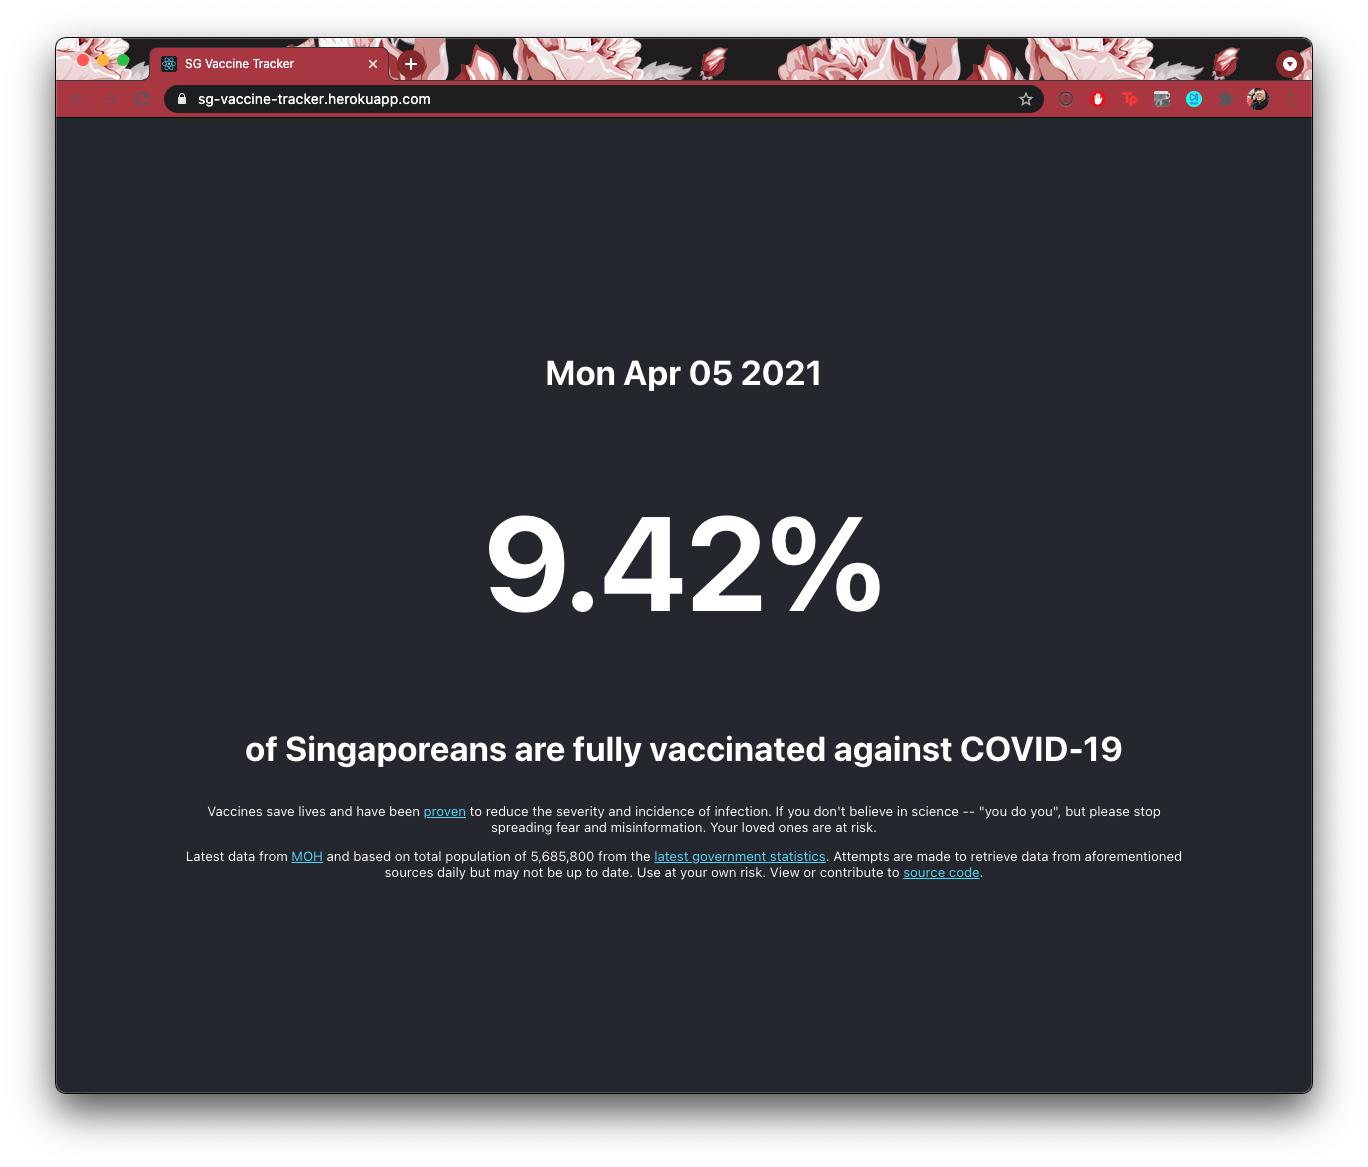
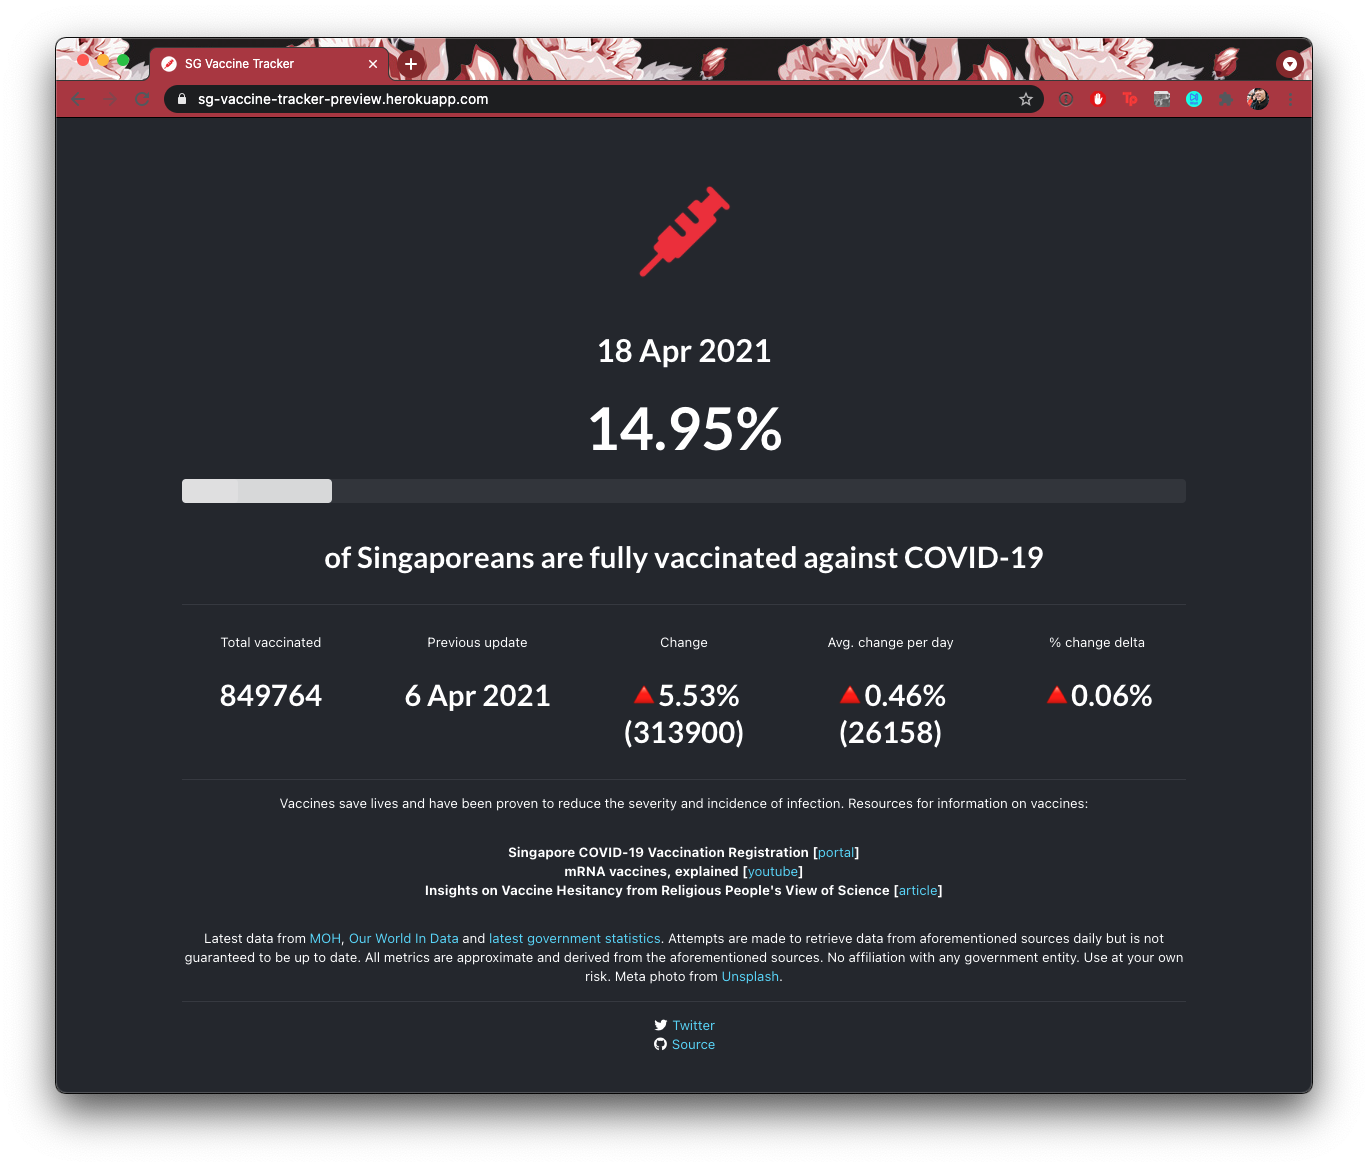
Update READMEs and latest demo screenshot

diff --git a/api/README.md b/api/README.md
@@ -31,7 +31,7 @@ Any interfacing with the data service, in this case AWS DynamoDB, is done in fil
 
 ### Notification Layer
 
-An interface with the notification service, in this case AWS Simple Notification Service and Slack, can be done in files within the `src/notificationLayer` directory. The Slack Web API has been used to enable this feature.
+An interface with the notification service, in this case AWS Simple Notification Service and Slack, can be done in files within the `src/notificationLayer` directory. The Slack Web API and Twitter APIs have been used to enable this feature.
 
 ### Lambdas
 
@@ -47,12 +47,25 @@ For offline testing, run `sls offline start --stage local`. Before this command 
 
 Then, use the client or query the API using Postman. There should be a single data point seeded.
 
+Unit tests are now enabled for this component via Jest. To run, use `npm run test`
+
 ### Configuring SNS and tokens
 
-Offline testing with SNS is currently not supported.
+Offline testing with SNS is now supported via the serverless-offline-ssm plugin. To use, create a `.env` file for local use with the following parameters
 
-AWS System Manager Parameter Store is used to store secret tokens relating to Slack. If there is a desire to hook a Slack App up, add the following parameters to AWS System Manager **manually**. A KNS key is already created as part of the serverless deploy.
+```env
+sgvt-slack-bot-token=''
+sgvt-slack-test-channel=''
+sgvt-slack-notification-channel=''
+sgvt-twitter-api-key=''
+sgvt-twitter-api-secret-key=''
+sgvt-twitter-bearer-token=''
+```
 
 - SLACK_BOT_TOKEN: The token provided by Slack
 - SLACK_TEST_CHANNEL: A test channel ID you would like non-prod notifications to be sent to. Ensure the app has been added to the channel first. The channel ID can be found via the URL path the Slack web interface, prefixed `C`
 - SLACK_NOTIFICATION_CHANNEL: A notification channel ID you would like prod notifications to be sent to.
+
+AWS System Manager Parameter Store is used to store secret tokens relating to Slack and Twitter. If not using the plugin, and if there is a desire to hook a Slack App or Twitter account up, add the above parameters to AWS System Manager **manually**. A KNS key is already created as part of the serverless deploy.
+
+Do note that Twitter requires one to petition for a developer account to access their APIs.

diff --git a/README.md b/README.md
@@ -11,9 +11,20 @@ This project consists of two components
 
 Do open the respective READMEs for more information
 
-## Calculating the Percentage
+## Calculating the Data
+
+### Percentage
 
 The percentage data point presented takes the total number of fully vaccinated persons in the country and divides it against the total number of residents and non residents in Singapore. It is the value as-of the date which the authorities last updated their counts.
+
+### Metrics
+
+A number of metrics are now presented alongside the percentage. They are
+
+- **Latest total number of fully vaccinated people**
+- **Change in percentage and number of fully vaccinated people since the last update**
+- **Average daily change in percentage and number of fully vaccinated people since the last update** -- since updates are sporadic, this metric is a rough approximation
+- **Change in average daily change across the current and previous update window**. This metric can be used to gauge whether the pace at which number of people becoming fully vaccinated is quickening or slowing down.
 
 Currently, data is limited and not updated often; it looks like the updates are only taking place once a week. If and when more data is available to the public, I may consider presenting regional/demographical statistics (vaccination per age group, per locale, etc.)
 
@@ -23,6 +34,8 @@ Best efforts are made to represent the latest and most accurate data from the fo
 
 1. [Ministry of Health (Singapore) COVID-19 Vaccination](https://www.moh.gov.sg/covid-19/vaccination)
 2. [Department of Statistics Singapore - Population and Population Structure](https://www.singstat.gov.sg/find-data/search-by-theme/population/population-and-population-structure/latest-data)
+
+Historical data for the period preceding 4/3/21 was obtained from [Our World In Data](https://ourworldindata.org/covid-vaccinations)
 
 To minimize the load on those services without causing disruption to said agencies, data is scraped only once a day and stored in this project's own backend databases.
 
